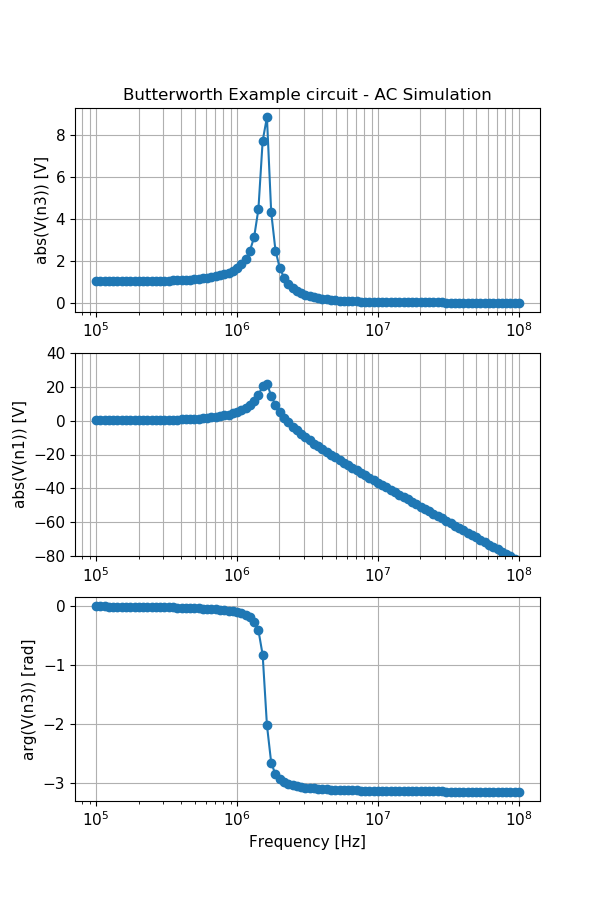
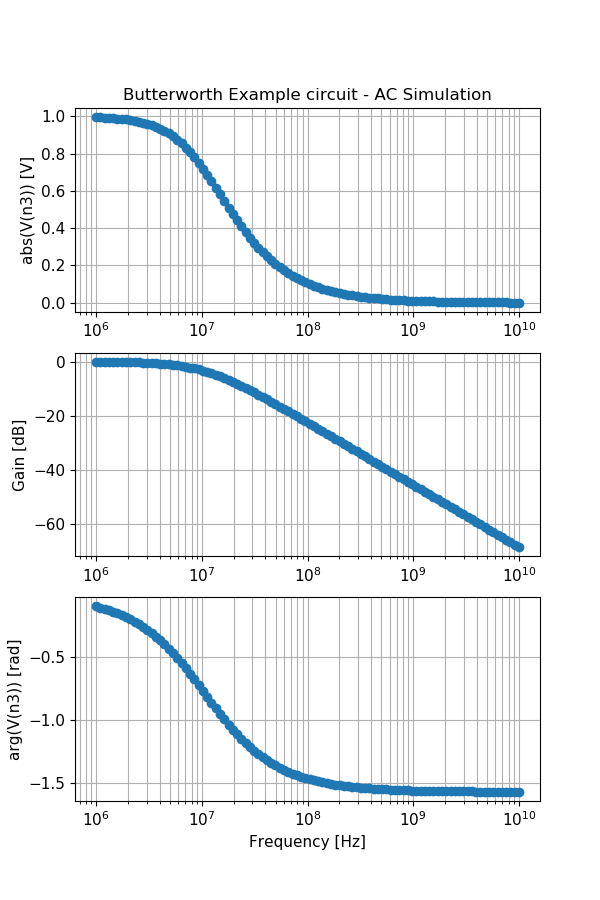
RLC01

diff --git a/ykim/Ahkab_RLC02.py b/ykim/Ahkab_RLC02.py
@@ -7,22 +7,26 @@ mycircuit = circuit.Circuit(title="Butterworth Example circuit", filename=None)
 
 gnd = mycircuit.get_ground_node()
 
-mycircuit.add_resistor("R1", n1="n1", n2="n2", value=10)
-mycircuit.add_inductor("L1", n1="n2", n2="n3", value=1e-5)
-mycircuit.add_capacitor("C1", n1="n3", n2=gnd, value=1e-9)
 
 
-voltage_step = time_functions.pulse(v1=0, v2=1, td=500e-9, tr=1e-12, pw=1, tf=1e-12, per=2)
+mycircuit.add_resistor("R1", n1="%s", n2="n2", value=100 % ('n1'))
+mycircuit.add_inductor("L1", n1="n2", n2="n3", value=0)
+mycircuit.add_capacitor("C1", n1="n3", n2=gnd, value=1.5e-10)
+
+
+
+voltage_step = time_functions.pulse(v1=0, v2=1, td=0.1e-6, tr=1e-12, pw=0.5e-6, tf=1e-12, per=1.0e-6)
 mycircuit.add_vsource("V1", n1="n1", n2=gnd, dc_value=5, ac_value=1, function=voltage_step)
+
 
 print mycircuit
 
 # op_analysis = ahkab.new_op()
-ac_analysis = ahkab.new_ac(start=1e5, stop=1e8, points=1e2)
-# tran_analysis = ahkab.new_tran(tstart=0, tstop=14e-6, tstep=0.1e-6, x0=None)
+ac_analysis = ahkab.new_ac(start=1e6, stop=1e10, points=1e2)
+tran_analysis = ahkab.new_tran(tstart=0, tstop=1e-6, tstep=0.01e-6, x0=None)
 
 # r = ahkab.run(mycircuit, an_list=[op_analysis, ac_analysis, tran_analysis])
-r = ahkab.run(mycircuit, an_list=[ac_analysis])
+r = ahkab.run(mycircuit, an_list=[ac_analysis, tran_analysis])
 
 
 import pylab
@@ -35,8 +39,8 @@ pylab.plot(r['tran']['T']*1e6, r['tran']['VN3'], label="output voltage")
 pylab.legend()
 pylab.hold(False)
 pylab.grid(True)
-pylab.ylim([0,2.0])
-pylab.xlim([0,16])
+# pylab.ylim([0,2.0])
+# pylab.xlim([0,16])
 pylab.ylabel('Step response')
 pylab.xlabel('Time [us]')
 fig.savefig('tran_plot.png')
@@ -53,10 +57,9 @@ pylab.grid(which ='both')
 
 pylab.subplot(312)
 pylab.semilogx(r['ac']['f'], 10*np.log(np.abs(r['ac']['Vn3'])/np.abs(r['ac']['Vn1'])), 'o-')
-pylab.ylabel('abs(V(n1)) [V]')
-pylab.ylim(-80, 40)
+pylab.ylabel('Gain [dB]')
+# pylab.ylim(-80, 40)
 pylab.grid(which ='both')
-
 
 pylab.subplot(313)
 pylab.grid(True)
